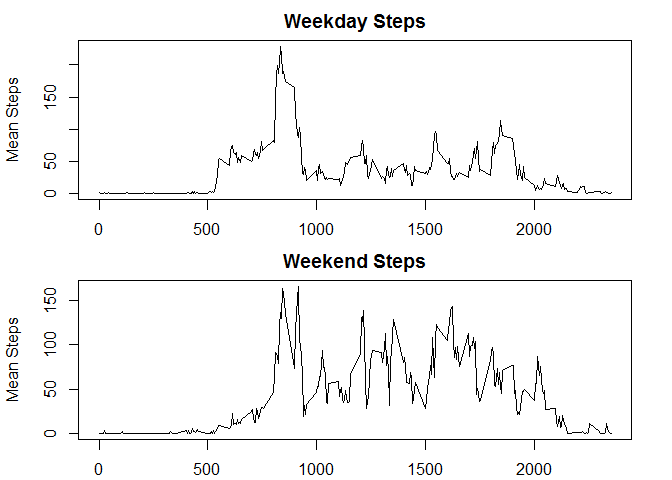
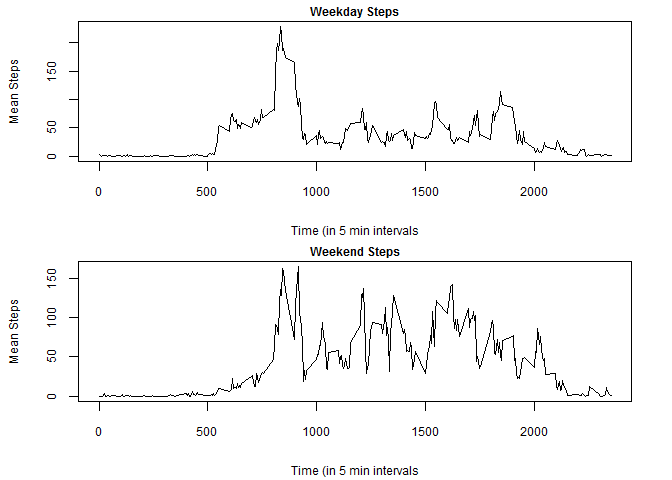
fixed the final graph

diff --git a/PA1_template.html b/PA1_template.html
@@ -194,7 +194,7 @@ hist(dailySteps)</code></pre>
 </div>
 <div id="are-there-differences-in-activity-patterns-between-weekdays-and-weekends" class="section level2">
 <h2>Are there differences in activity patterns between weekdays and weekends?</h2>
-<p>Process the updated data (where NA is replace) to create separate datasets for weekends and weekdays and create timeseries graphs</p>
+<p>Process the updated data (where NA is replace) to create separate datasets for weekends and weekdays and create timeseries graphs Note that the timeseries graphs appear to be as one would expace….more steps earlier on the weekdays with steps decreasing earlier. On the weekends steps jump up a little later but there are more steps during the day and longer into the evening.</p>
 <pre class="r"><code>##create the weekday and weekend column
 dows&lt;-weekdays(as.Date(activity$date))
 dows[dows==&quot;Sunday&quot; | dows==&quot;Saturday&quot;]&lt;-&quot;Weekend&quot;
@@ -217,8 +217,8 @@ ctimes&lt;-ctimes[2:289]
 
 ##setup and create the first plot
 par(mfcol=c(2,1))
-par(mar=c( 2.1, 4.1, 2.1, 2.1))
-plot(x=ctimes,y=cmeans,type=&quot;l&quot;,xlab = &quot;Time (in 5 min intervals&quot;,ylab = &quot;Mean Steps&quot;, main = &quot;Weekday Steps&quot;)
+par(mar=c( 4.1, 4.1, 1.1, 2.1))
+plot(x=ctimes,y=cmeans,type=&quot;l&quot;,xlab = &quot;Time (in 5 min intervals&quot;,ylab = &quot;Mean Steps&quot;, main = &quot;Weekday Steps&quot;,cex.main=.75,cex.axis=0.75,cex.lab=.75)
 
 ##do the same for the weekend data
 weVal2&lt;-subset(weVal,select = -dows)
@@ -228,8 +228,8 @@ sumcol&lt;-subset(we2, select = -date)
 cmeans&lt;-colMeans(sumcol)
 ctimes&lt;-names(we2)
 ctimes&lt;-ctimes[2:289]
-plot(x=ctimes,y=cmeans,type=&quot;l&quot;,xlab = &quot;Time (in 5 min intervals&quot;,ylab = &quot;Mean Steps&quot;, main = &quot;Weekend Steps&quot;)</code></pre>
[1 lines of base64/hex data omitted]
+plot(x=ctimes,y=cmeans,type=&quot;l&quot;,xlab = &quot;Time (in 5 min intervals&quot;,ylab = &quot;Mean Steps&quot;, main = &quot;Weekend Steps&quot;,cex.main=.75,cex.axis=0.75,cex.lab=.75)</code></pre>
[1 lines of base64/hex data omitted]
 </div>
 
 

diff --git a/PA1_template.md b/PA1_template.md
@@ -134,6 +134,7 @@ summary(dailySteps)
 ## Are there differences in activity patterns between weekdays and weekends?
 
 Process the updated data (where NA is replace) to create separate datasets for weekends and weekdays and create timeseries graphs
+Note that the timeseries graphs appear to be as one would expace....more steps earlier on the weekdays with steps decreasing earlier.  On the weekends steps jump up a little later but there are more steps during the day and longer into the evening.
 
 ```r
 ##create the weekday and weekend column
@@ -158,8 +159,8 @@ ctimes<-ctimes[2:289]
 
 ##setup and create the first plot
 par(mfcol=c(2,1))
-par(mar=c( 2.1, 4.1, 2.1, 2.1))
-plot(x=ctimes,y=cmeans,type="l",xlab = "Time (in 5 min intervals",ylab = "Mean Steps", main = "Weekday Steps")
+par(mar=c( 4.1, 4.1, 1.1, 2.1))
+plot(x=ctimes,y=cmeans,type="l",xlab = "Time (in 5 min intervals",ylab = "Mean Steps", main = "Weekday Steps",cex.main=.75,cex.axis=0.75,cex.lab=.75)
 
 ##do the same for the weekend data
 weVal2<-subset(weVal,select = -dows)
@@ -169,7 +170,7 @@ sumcol<-subset(we2, select = -date)
 cmeans<-colMeans(sumcol)
 ctimes<-names(we2)
 ctimes<-ctimes[2:289]
-plot(x=ctimes,y=cmeans,type="l",xlab = "Time (in 5 min intervals",ylab = "Mean Steps", main = "Weekend Steps")
+plot(x=ctimes,y=cmeans,type="l",xlab = "Time (in 5 min intervals",ylab = "Mean Steps", main = "Weekend Steps",cex.main=.75,cex.axis=0.75,cex.lab=.75)
 ```
 
 ![](PA1_template_files/figure-html/activityCompare-1.png)<!-- -->
